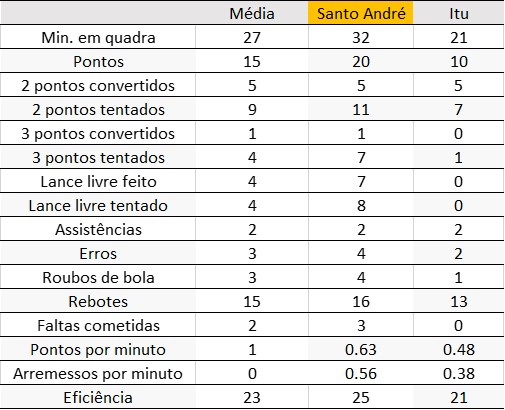
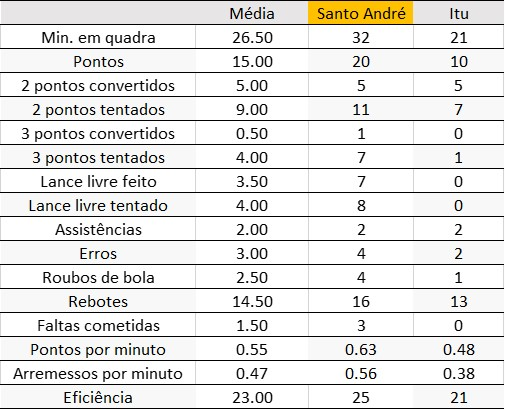
santo andré

Changed region(s): [[0.4455, 0.0585, 0.5347, 0.9951]]

diff --git a/docs/6.html b/docs/6.html
@@ -56,7 +56,7 @@
                
                 <img class="shoot" src="galeria/6.1.jpg">
                 <p>Quando olha os números, não se aparece grandes resultados, porém ao analisar o volume ofensivo, vê-se números excelentes
-                    (média de 5,83 em 2 pontos tentados e 4,33 em 3 pontos tentados). Com acertos acima de 50% em arremessos de 2 pontos.
+                    (média de 6,29 em 2 pontos tentados e 4,43 em 3 pontos tentados). Com acertos acima de 50% em arremessos de 2 pontos.
             
             </p>
             </div>
@@ -67,7 +67,8 @@
                
                 <img class="shoot" src="galeria/6.2.jpg">
                 <p>Agressão à cesta em todos os lados da quadra, com ênfase em bolas no garrafão do lado esquerda da quadra.
-                    Atenção aos arremessos da zona morta, embora tenha acertado apenas 3, os arremessos tentados foram de 4 (75% de eficácia).
+                    Atenção aos arremessos da zona morta, embora tenha acertado apenas 4, os arremessos tentados foram de 5 (80% de eficácia).
+                    Presente no quinteto mais ofensivo em porntos por minuto no jogo contra Santo André (segunda fase).
             </p>
             </div>
         </section>

diff --git a/docs/12.html b/docs/12.html
@@ -53,7 +53,8 @@
             <div class="segundapagina espaco">   
                
                 <img class="shoot" src="galeria/12.1.jpg">
-                <p>Números altos em pontos por minuto (sendo 1 ponto a cada 2 minutos jogados).
+                <p>Números altos em pontos por minuto (sendo 1 ponto a cada 2 minutos jogados) e arremessos por minuto (1 arremesso a cada 2 minutos).
+
                     
             
             </p>
@@ -64,8 +65,9 @@
             <div class="segundapagina espaco">   
                
                 <img class="shoot" src="galeria/12.2.jpg">
-                <p>Com arremessos focados principalmente no quadrante central, sendo parte do melhor quinteto ofensivo em 1
-                     dos jogos em pontos por minuto. Foco maior em acertos do lado direito da quadra.
+                <p>Com arremessos focados principalmente no quadrante central, sendo parte do melhor quinteto ofensivo em 2
+                     dos jogos em pontos por minuto. Foco maior em acertos do lado direito da quadra. Ao passo que, maior numero de arremessos
+                     tentados do lado esquerdo da quadra.
             </p>
             </div>
         </section>

diff --git a/docs/11.html b/docs/11.html
@@ -65,7 +65,7 @@
                
                 <img class="shoot" src="galeria/11.2.jpg">
                 <p>Com ação principal nos quadrantes centrais, com foco em bolas embaixo da cesta no lado direito, ao passo que, quando
-                    se trata de arremessos de 3 pontos, possui um maior volume de acertos do lado esquerdo.
+                    se trata de arremessos de 3 pontos, possui um maior volume de acertos e erros do lado esquerdo.
             </p>
             </div>
         </section>
@@ -75,8 +75,8 @@
             <div class="segundapagina espaco">   
                
                 <img class="shoot" src="galeria/11.3.jpg">
-                <p>Com médias maiores de arremessos tentados em 3 pontos, os maiores erros e tentativas estão condensadas na 
-                    área de 45 graus para a cesta. Com erros de 2 pontos existentes praticamente no lado direito da quadra.
+                <p>Os maiores erros e tentativas estão condensadas na 
+                    área de 45 graus para a cesta. 
             </p>
             </div>
         </section>

diff --git a/docs/2.html b/docs/2.html
@@ -65,7 +65,7 @@
                
                 <img class="shoot" src="galeria/2.2.jpg">
                 <p>Acertos direcionados ao garrafão lado direito da quadra, com possibilidades de explorar melhor este local.
-                    Além disso, compôs o melhor quinteto ofensivo em pontos por minuto em 2 jogos.
+                    Além disso, compôs o melhor quinteto ofensivo em pontos por minuto em 3 jogos.
                     Contra Itú foi característico o melhor jogo com perigo à cesta,
                      sendo parte do quinteto mais ofensivo em pontos por minutos
             </p>
@@ -77,7 +77,7 @@
             <div class="segundapagina espaco">   
                
                 <img class="shoot" src="galeria/2.3.jpg">
-                <p>Jogo concentrado no lado direito da quadra, em diversos espaços, com pouca ação no lado esquedo.
+                <p>Jogo concentrado no lado direito da quadra, em diversos espaços, com pouca ação no garrafão do lado esquedo.
             </p>
             </div>
         </section>

diff --git a/docs/10.html b/docs/10.html
@@ -65,7 +65,7 @@
             <div class="segundapagina espaco">   
                
                 <img class="shoot" src="galeria/10.2.jpg">
-                <p>Com arremessos discretos, focados principalmente no quadrante central, sendo parte do melhor quinteto ofensivo em 2
+                <p>Com arremessos discretos, focados principalmente no quadrante central, sendo parte do melhor quinteto ofensivo em 3
                      dos jogos em pontos por minuto. Foco maior em acertos do lado direito da quadra. Top 10 em rebotes totais pegos,
                      top 5 em rebotes defensivos pegos. Maior número de assistências do campeonato (40). Top 10 roubos de bola.
             </p>

diff --git a/docs/7.html b/docs/7.html
@@ -54,8 +54,8 @@
             <div class="segundapagina espaco">   
                
                 <img class="shoot" src="galeria/7.1.jpg">
-                <p>Com média de 30 minutos e 1 arremesso a cada 2 minutos, vê-se volume ofensivo grande. Com aproximadamente
-                    45% em bolas de 3 pontos e 30% em bolas de 2 pontos. Com quase 4 assistências de média e 3 roubos de bola.
+                <p>Com média de 27 minutos e 1 arremesso a cada 2 minutos, vê-se volume ofensivo grande. 
+                    Com quase 4 assistências de média e 3 roubos de bola.
             
             </p>
             </div>

diff --git a/docs/24.html b/docs/24.html
@@ -53,8 +53,8 @@
             <div class="segundapagina espaco">   
                
                 <img class="shoot" src="galeria/24.1.jpg">
-                <p>Com 50% de acertos em arremessos de 2 pontos e 1 arremesso a cada 2 minutos. Tendo média de 1.5 roubos
-                    de bola por jogo e 3 rebotes. Presente no quinteto mais ofensivo em pontos por minutos em 2 jogos.
+                <p>Com 50% de acertos em arremessos de 2 pontos e 2 arremesso a cada 3 minutos. 
+                    Presente no quinteto mais ofensivo em pontos por minutos em 2 jogos.
             
             </p>
             </div>

diff --git a/docs/14.html b/docs/14.html
@@ -55,7 +55,7 @@
                 <img class="shoot" src="galeria/14.1.jpg">
                 <p>Com aproveitamento em bolas de 2 pontos maiores do que 50%, em média de 7 rebotes por jogo, possui
                     1 ponto a cada 2 minutos jogados. Atenção à média alta em faltas cometidas, quase 3 por jogo. Sendo principalmente
-                    do quinteto mais ofensivo em pontos por minuto em 4 jogos.
+                    do quinteto mais ofensivo em pontos por minuto em 5 jogos.
             
             </p>
             </div>

diff --git a/docs/15.html b/docs/15.html
@@ -75,7 +75,8 @@
             <div class="segundapagina espaco">   
                
                 <img class="shoot" src="galeria/15.3.jpg">
-                <p>Erros também focados dentro do garrafão, sendo o lado esquerdo como principal número de erros. Com apenas um arremesso
+                <p>Erros também focados dentro do garrafão, sendo o lado esquerdo como principal número de erros. Com apenas dois
+                    arremessos de 
                     fora do garrafão.
             </p>
             </div>

diff --git a/docs/9.html b/docs/9.html
@@ -54,7 +54,7 @@
             <div class="segundapagina espaco">   
                
                 <img class="shoot" src="galeria/9.1.jpg">
-                <p>Visão defensiva importante nos jogos, com média de 4 assistências e 2 roubos de bola. Com quase 40% de
+                <p>Visão defensiva importante nos jogos, com média de 3 assistências e 1,5 roubos de bola. Com quase 40% de
                     acertos em bolas de 3 pontos. Tendo um volume de 1 arremesso a cada 3 minutos.
             
             </p>

diff --git a/docs/4.html b/docs/4.html
@@ -55,7 +55,7 @@
                 <img class="shoot" src="galeria/4.1.jpg">
                 <p>Alta porcentagem em arremessos de 2 pontos, jogando principalmente no balanço defensivo (linha dos 3 pontos 
                     no centro da quadra), possibilita corte rápido para a cesta.
-                    Porém atenção ao número médio de faltas nos jogos.
+                    
 
             
             </p>
